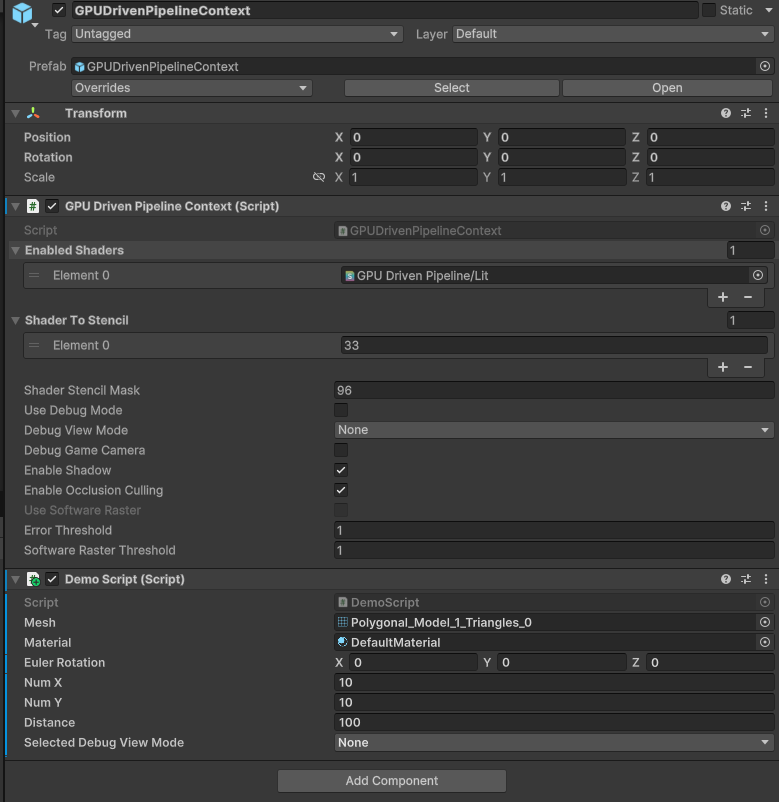
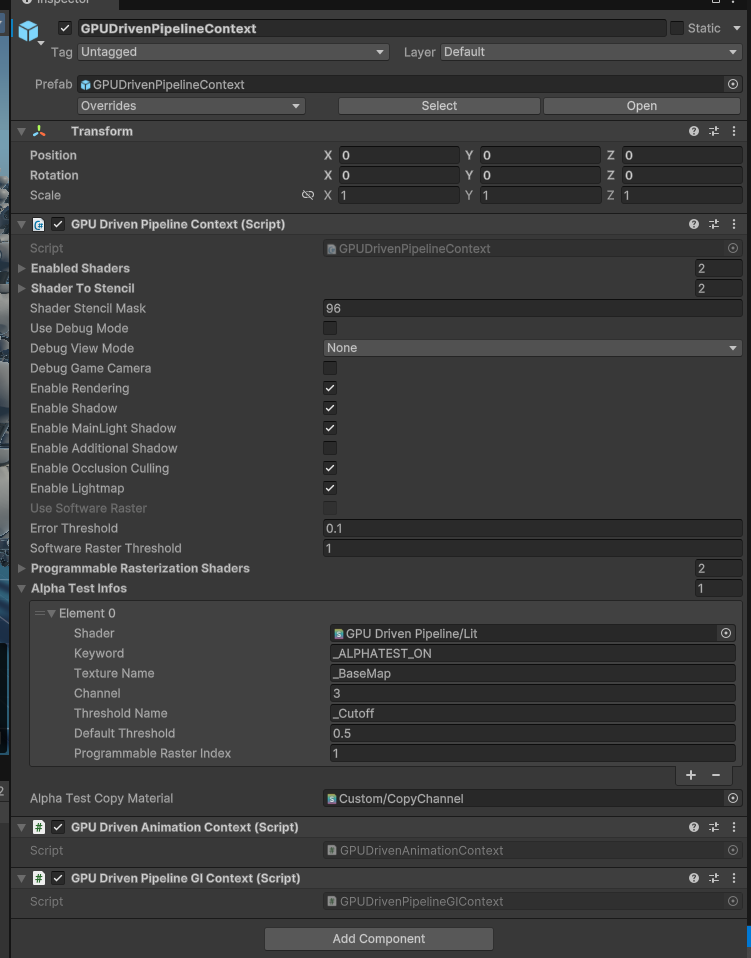
v1.1

diff --git a/index.md b/index.md
@@ -45,28 +45,26 @@ And it's a fully GPU-driven solution for Unity. I am developing this project alo
 
 * Support opaque object only
 
-### <font color="red">Not Support Yet:</font>
-* No software rasterier
-
-* No two phase rasterier
-
-* No Streaming
-
-* No compression
-
 * Programingable rasterier (Alpha Test)
 
 * Skinned mesh
 
-* Not Support Unity Terrain
-
-* rendering layer is not supported please turn off
+* rendering layer
 
 * Deferred shading only
 
-* May cause issues with other render features
+* Per-object GI is supported (per-object light probe， reflection probe and Lightmap)
 
-* Per-object technology is not supported (e.g., per-object light probe and reflection probe. Use per-pixel reflection probe and LPV instead, or pass per-object data yourself)
+### <font color="red">Not Support Yet:</font>
+* No software rasterier
+
+* No two phase Occlusion Culling
+
+* No Streaming
+
+* No Compression currently
+
+* Not Support Unity Terrain (no plan to support)
 
 # Document
 
@@ -74,17 +72,17 @@ And it's a fully GPU-driven solution for Unity. I am developing this project alo
 ## Setup Guide
 Using this project is very simple:
 
+### Automatically
+1、Use URP. It is recommended to start with an empty Core URP project.
+When opening for the first time or clicking [Tools/Show Seamless Virtual Geometry Setup Window], the following window will appear. Click [Init Package] to initialize."
+
+![alt text](image-4.png)
+
 ### Manually
 1、Use URP. It is recommended to start with an empty Core URP project and set the Rendering Path to Deferred (this setting is usually located in "Assets/Settings/PC_Renderer.asset").
 ![alt text](image.png)
-2、Modify the Pipeline Asset properties (usually found in "Assets/Settings/PC_RPAsset.asset"). Click the More button in the top right corner, open Advanced Properties, and disable the Rendering Layer feature.
 
-3、Open PC_Renderer.asset from step 1 and add a render feature named GPU Driven Pipeline Feature.
-![alt text](image-1.png)
-### Automatically
-Also recommended to start with an empty Core URP project. Open "Assets/GpuDrivenPipeline/Demo/Scenes/DemoScene.unity" and it will help you setup urp automatically.
-
-Then, open DemoScene to see how it works.
+2、Open PC_Renderer.asset from step 1 and add a render feature named GPU Driven Pipeline Feature. And Assgin shaders.
 
 ## How to bake Scene
 Drag Assets/GpuDrivenPipeline/Runtime/Prefabs/GPUDrivenPipelineContext.prefab into the Scene Hierarchy and configure it. The default settings should work with the default URP.
@@ -94,6 +92,11 @@ Use the configured shaders to create your scene. Then, add the GPU Driven Scene 
 If you want to continue editing the scene, click Revert Scene.
 
 ⚠ Note: It is recommended to place all VG objects under a single root parent for better scene management and clarity.
+
+If you're using URP, the simplest way is to replace all materials' Lit shader with our GPUDrivenPipelineLit.shader, then simply click 'Bake Scene'."
+
+Alse see https://www.youtube.com/watch?v=Mvty08Og7Lo
+
 
 ![alt text](image-2.png)
 GPUDrivenPipelineContext Settings
@@ -114,8 +117,22 @@ GPUDrivenPipelineContext Settings
 
 * **Software Raster Threshold**: Current just simply drop the meshlet that smaller than the value.
 
+* **Alpha Test Info**: The actual programmable rasterization shader is determined based on the shader's name and its keyword combination.
+ If the keyword is empty, it means the shader always uses the programmable rasterization shader corresponding to that programmable raster index. 
+ TextureName refers to the texture attribute name used in the material, channel specifies which channel represents the alpha channel (0–3 corresponding to RGBA),
+  and Threshold Name indicates the attribute name that defines the cutoff threshold.
+
 ![alt text](image-3.png)
 GPU Driven Scene as shown in the image above.
+
+## Skinned Mesh Support
+For skeletal animation, we provide GPU skinning to support movement and deformation. Our solution is similar to vertex skinning. The advantage is that for multiple different animations of the same mesh, we don’t modify the original vertex buffer—instead, we skin directly based on the skeleton. This reduces unnecessary GPU memory usage. The downside is that in multi-pass scenarios (e.g., shadow and draw passes), skinning needs to be performed multiple times. This approach is a trade-off between memory consumption and runtime performance.
+
+![alt text](image-5.png)
+
+For Skinned Mesh Renderers, similar to regular renderers, no additional handling is generally required. During scene baking, a GDASkinnedMeshRendererController will be attached under the corresponding Skinned Mesh Renderer. If you need to update the position every frame, enable 'Need Update Position' — this is suitable for scenarios where frequent position updates are needed. In the case shown in the SkinnedMeshDemo scene, where multiple instances play the same animation, simply assign the 'Used Refer' to the controller that should follow the animation.
+
+Alse see https://www.youtube.com/watch?v=wklo_K_ixQI&t=2s
 
 ## Configure with your own shader
 1、Add Render State Commands, And Add Shader Properties
@@ -213,17 +230,35 @@ GPU Driven Scene as shown in the image above.
                     UNITY_SETUP_STEREO_EYE_INDEX_POST_VERTEX(input);
 
                     // Recreate Data From VBuffer
+                    float2 ddxUV = 0;
+                    float2 ddyUV = 0;
+                    float2 ddxUV2 = 0;
+                    float2 ddyUV2 = 0;
+                    float2 outUV2 = 0;
+                    uint perInstanceID = 0;
+                    uint outRenderingLayer=0;
+                    InstanceGIData instanceGIData = (InstanceGIData) 0;
                     #ifdef _VBUFFER_MATERIAL_DRAW
                         int meshletIndex = 0;
                         int triangleID = 0;
-                        ReCreateVertOutDataFromVBuffer(input.uv, input.uv, input.positionWS, input.normalWS, input.positionCS.z, meshletIndex, triangleID);
+
+                        #if defined(REQUIRES_WORLD_SPACE_TANGENT_INTERPOLATOR)
+                            ReCreateVertOutDataFromVBuffer(input.uv, input.uv, input.positionWS, input.normalWS, input.tangentWS,
+                                input.positionCS.z, meshletIndex, triangleID, ddxUV, ddyUV, perInstanceID, outUV2, ddxUV2, ddyUV2, outRenderingLayer);
+                        #else
+                            float4 outTangentWS = 0;
+                            ReCreateVertOutDataFromVBuffer(input.uv, input.uv, input.positionWS, input.normalWS, outTangentWS,
+                                input.positionCS.z, meshletIndex, triangleID, ddxUV, ddyUV, perInstanceID, outUV2, ddxUV2, ddyUV2, outRenderingLayer);
+                        #endif
+                        instanceGIData = InstanceGIDataBuffer[perInstanceID];
+                        // we skip vertx shader so has to tilling here, also should scale ddx, ddy
                     #endif
                     ...
                     ...
 
                     // only if need debug Begin
                     #ifdef GPU_DRIVEN_PIPELINE_DEBUG
-                    #if defined(GPU_DRIVEN_PIPELINE)  ||  defined(_VBUFFER_MATERIAL_DRAW)
+                    #if defined(_VBUFFER_MATERIAL_DRAW)
                         uint debugIndex = 0;
                         if(_GpuDrivenPipelineDebugMode < 1.5)
                             debugIndex = meshletIndex;
@@ -235,6 +270,7 @@ GPU Driven Scene as shown in the image above.
                             float4(0, 1, 0, 1), float4(0, 0, 1, 1), float4(1, 1, 0, 1), float4(1, 0, 1, 1),
                             float4(0, 1, 1, 1), float4(1, 1, 1, 1), float4(0.5, 0.5, 0.5, 1), float4(0.5, 0, 0, 1), float4(0, 0.5, 0, 1)};
                         surfaceData.emission = debugColor[debugIndex % 10];
+                        surfaceData.albedo = 0;
                     #endif
                     #endif
                     // only if need debug End
@@ -300,70 +336,77 @@ void ReCreateVertOutDataFromVBuffer(float2 uv, out float2 outUV, out float3 outP
 }
 
 ```
-4、for shadow pass
-```hlsl
-              #include "./ShadingUtils.hlsl"
-              #pragma multi_compile _ GPU_DRIVEN_PIPELINE
-              ...
-              ...
 
-              float4 GetShadowPositionHClipGPUDriven(Attributes input)
-              {
-                  // todo
-                  // float3 positionWS = TransformObjectToWorld(input.positionOS.xyz);
-                  // float3 normalWS = TransformObjectToWorldNormal(input.normalOS);
-                  float3 positionWS = input.positionOS.xyz;
-                  float3 normalWS = input.normalOS;
-                  
-              #if _CASTING_PUNCTUAL_LIGHT_SHADOW
-                  float3 lightDirectionWS = normalize(_LightPosition - positionWS);
-              #else
-                  float3 lightDirectionWS = _LightDirection;
-              #endif
+4、For UV sampling, use SAMPLE_TEXTURE2D_GRAD with the ddxUV and ddyUV parameters, as demonstrated in the SampleAlbedoAlpha function. For details, refer to Assets/GpuDrivenPipeline/Runtime/Shaders/Lit/URPShaderLib/SurfaceInput.hlsl.
 
-                  float4 positionCS = TransformWorldToHClip(ApplyShadowBias(positionWS, normalWS, lightDirectionWS));
-
-              #if UNITY_REVERSED_Z
-                  positionCS.z = min(positionCS.z, UNITY_NEAR_CLIP_VALUE);
-              #else
-                  positionCS.z = max(positionCS.z, UNITY_NEAR_CLIP_VALUE);
-              #endif
-
-                  return positionCS;
-              }   
-
-              Varyings CustomShadowPassVertex(Attributes input, uint vertexID : SV_VertexID)
-              {
-                  Varyings output;
-                  UNITY_SETUP_INSTANCE_ID(input);
-                  UNITY_TRANSFER_INSTANCE_ID(input, output);
-
-                  #ifdef GPU_DRIVEN_PIPELINE
-                      uint instanceID = UNITY_GET_INSTANCE_ID(input);
-                      uint meshletIndex = 0;
-                      uint nodeOffset = 0;
-                      float3 tangentWS = 0;
-                      input.positionOS.xyz = UpdateMeshlet(instanceID, vertexID, input.normalOS, input.texcoord, meshletIndex, nodeOffset, tangentWS);
-                      output.positionCS = GetShadowPositionHClipGPUDriven(input);
-                  #else
-                      output.positionCS = GetShadowPositionHClip(input);
-                  #endif
-
-                  
-                  #if defined(_ALPHATEST_ON)
-                  output.uv = TRANSFORM_TEX(input.texcoord, _BaseMap);
-                  #endif
-                      
-                  return output;
-              }
 ```
+inline void InitializeStandardLitSurfaceData(float2 uv, out SurfaceData outSurfaceData, float2 ddxUV=0, float2 ddyUV=0)
+{
+    float2 tilling1 = _Tiling1;
+    float2 tilling2 = _Tiling2;
+    float2 uv1 = tilling1 * uv;
+    float2 uv2 = tilling2 * uv;
+    half4 albedo1 = SampleAlbedoAlpha(uv1, TEXTURE2D_ARGS(_Albedo1, sampler_Albedo1), ddxUV * tilling1, ddyUV * tilling1);
+    half4 albedo2 = SampleAlbedoAlpha(uv2, TEXTURE2D_ARGS(_Albedo1, sampler_Albedo1), ddxUV * tilling2, ddyUV * tilling2);
+    half3 normal1 = SampleNormal(uv1, TEXTURE2D_ARGS(_Normal1, sampler_Normal1), 1.0, ddxUV * tilling1, ddyUV * tilling1);
+    half3 normal2 = SampleNormal(uv2, TEXTURE2D_ARGS(_Normal1, sampler_Normal1), 1.0, ddxUV * tilling2, ddyUV * tilling2);
+    #ifdef _VBUFFER_MATERIAL_DRAW
+    half4 specular1 = SAMPLE_TEXTURE2D_GRAD(_Specular1, sampler_Specular1, uv1, ddxUV * tilling1, ddyUV * tilling1);
+    half4 specular2 = SAMPLE_TEXTURE2D_GRAD(_Specular2, sampler_Specular2, uv2, ddxUV * tilling2, ddyUV * tilling2);
+    float mask = SAMPLE_TEXTURE2D_GRAD(_Mask, sampler_Mask, uv, ddxUV, ddyUV).a;
+    #else
+    half4 specular1 = SAMPLE_TEXTURE2D(_Specular1, sampler_Specular1, uv1);
+    half4 specular2 = SAMPLE_TEXTURE2D(_Specular2, sampler_Specular2, uv2);
+    float mask = SAMPLE_TEXTURE2D(_Mask, sampler_Mask, uv).a;
+    #endif
+
+    half4 albedoAlpha = lerp(albedo1, albedo2, mask);
+    half3 normalTS = normalize(lerp(normal1, normal2, mask));
+    half4 specGloss = lerp(specular1, specular2, mask);
+    
+    
+    outSurfaceData.alpha = 1.0;
+    outSurfaceData.albedo = albedoAlpha.rgb;
+    outSurfaceData.albedo = AlphaModulate(outSurfaceData.albedo, outSurfaceData.alpha);
+
+    outSurfaceData.metallic = half(0.0);
+    outSurfaceData.specular = specGloss.rgb;
+
+    outSurfaceData.smoothness = specGloss.a;
+    outSurfaceData.normalTS = normalTS;
+    outSurfaceData.occlusion = SampleOcclusion(uv, ddxUV, ddyUV);
+    outSurfaceData.emission = 0;
+
+#if defined(_CLEARCOAT) || defined(_CLEARCOATMAP)
+    half2 clearCoat = SampleClearCoat(uv);
+    outSurfaceData.clearCoatMask       = clearCoat.r;
+    outSurfaceData.clearCoatSmoothness = clearCoat.g;
+#else
+    outSurfaceData.clearCoatMask       = half(0.0);
+    outSurfaceData.clearCoatSmoothness = half(0.0);
+#endif
+
+}
+```
+
+```
+half4 SampleAlbedoAlpha(float2 uv, TEXTURE2D_PARAM(albedoAlphaMap, sampler_albedoAlphaMap), float2 ddxUV, float2 ddyUV)
+{
+    #ifdef _VBUFFER_MATERIAL_DRAW
+    return half4(SAMPLE_TEXTURE2D_GRAD(albedoAlphaMap, sampler_albedoAlphaMap, uv, ddxUV, ddyUV));
+    #else
+    return half4(SAMPLE_TEXTURE2D(albedoAlphaMap, sampler_albedoAlphaMap, uv));
+    #endif
+}
+```
+
 
 ## GC Free
 To avoid making intrusive modifications to URP, I use reflection to call certain functions and properties during the shadow rendering phase of VG.
 
-To enable a GC-free function call approach, I use the macro GPU_DRIVEN_PIPELINE_NO_GC to differentiate between the GC-free and non-GC-free versions.
+To enable a GC-free function call approach, I use two dll to differentiate between the GC-free and non-GC-free versions.
 
-You can manually add GPU_DRIVEN_PIPELINE_NO_GC to ProjectSettings -> Player -> Scripting Define Symbols to switch to the GC-free version. Additionally, copy the URP package to your local project and modify any private or internal properties and methods causing compilation errors by changing them to public.
+Additionally, copy the URP package to your local project and modify any private or internal properties and methods causing compilation errors by changing them to public.
 
 ## Technical Details
 
@@ -385,16 +428,10 @@ The current version of BVH traversal is similar to the terrain LOD traversal use
 This may not be the most efficient approach, and the current version does not include multi-view processing (though implementing it should not be too difficult). As a result, the CPU overhead for shadows is relatively high.
 
 ### About Mobile
-I have not tested this on mobile devices. However, from a technical standpoint, since software rasterization is not used, my VG implementation should be able to run on mobile devices.
+The mobile version is now working properly (Android Vulkan), tested on OnePlus 7 Pro.
 
-That said, as everyone knows, Nanite has not been optimized for mobile either. Given the bandwidth limitations on mobile devices, the performance may not be ideal.
+That said, as everyone knows, Nanite has not been optimized for mobile either. Given the bandwidth limitations on mobile devices, the performance may not be ideal.In my tests, VG even caused a performance drop on mobile.For mobile platforms, more time may be needed for optimization.
 
-### About Programmable Rasterization
-Regarding programmable rasterization (specifically alpha testing), I don't see any major technical challenges. However, I lack suitable engineering implementations as references.
-
-I might consider implementing a simplified version of alpha testing, such as reading a texture based on UV coordinates during rasterization and applying alpha testing accordingly.
-
-In the future, I may also work on integrating GPU Skinning with meshlets.
 
 ## Contact Me
 
